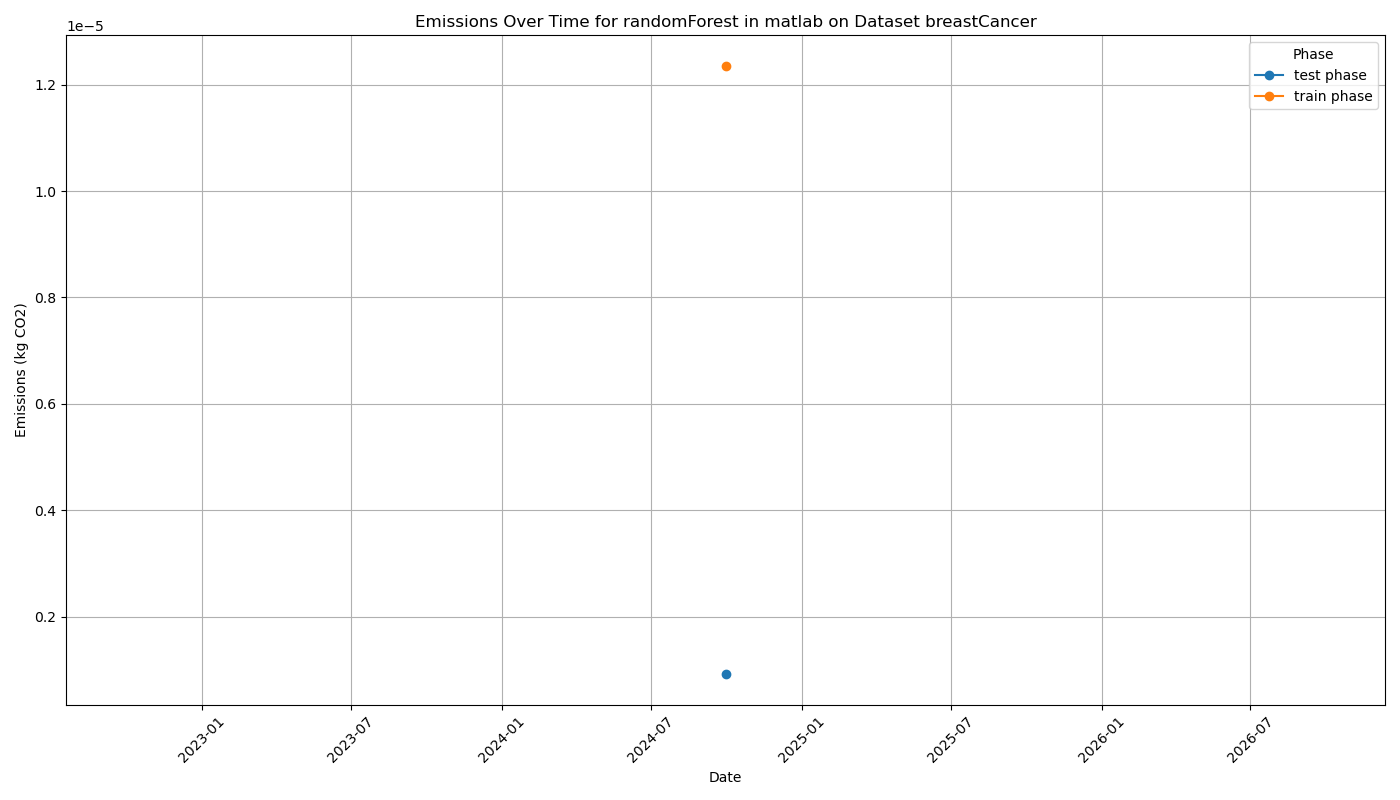
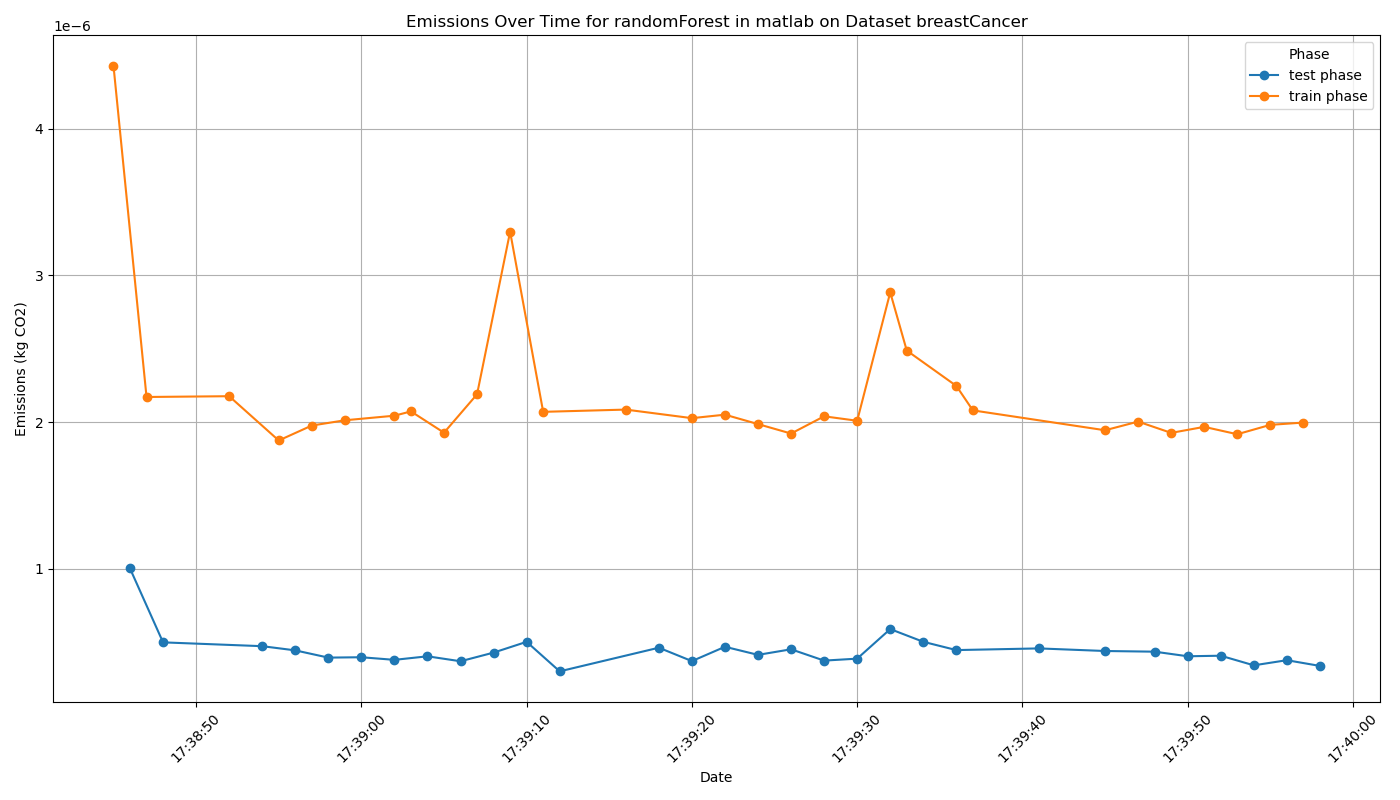
modified timeseries for paper

diff --git a/src/HandlePlot.py b/src/HandlePlot.py
@@ -13,14 +13,14 @@ def load_dataset(file_path):
 
 
 def plot_execution_time_by_language_and_algorithm(
-    df,
-    language_col,
-    algorithm_col,
-    time_col,
-    type_col,
-    type_value,
-    title,
-    excluded_language,
+        df,
+        language_col,
+        algorithm_col,
+        time_col,
+        type_col,
+        type_value,
+        title,
+        excluded_language,
 ):
     if excluded_language:
         df = df[df[language_col] != excluded_language]
@@ -61,7 +61,7 @@ def plot_execution_time_by_language_and_algorithm(
 
 
 def plot_duration_vs_emissions(
-    df, duration_col, co2_col, title="Durata_vs_Emissioni_di_CO₂"
+        df, duration_col, co2_col, title="Durata_vs_Emissioni_di_CO₂"
 ):
     # Calcolo dei quartili
     Q1 = df[co2_col].quantile(0.25)
@@ -86,11 +86,11 @@ def plot_duration_vs_emissions(
 
 
 def plot_duration_by_algorithm_and_dataset(
-    df,
-    algorithm_col,
-    duration_col,
-    dataset_col,
-    title="Durata_per_Algoritmo_diviso_per_Dataset",
+        df,
+        algorithm_col,
+        duration_col,
+        dataset_col,
+        title="Durata_per_Algoritmo_diviso_per_Dataset",
 ):
     plt.figure(figsize=(14, 8))
     palette = sns.color_palette("tab20", n_colors=df[dataset_col].nunique())
@@ -164,7 +164,7 @@ def plot_performance_heatmap(df, language_col, algorithm_col, col):
 
 
 def plot_execution_time_by_dataset(
-    df, dataset_col, time_col, language_col, title="Execution_Time_by_Dataset"
+        df, dataset_col, time_col, language_col, title="Execution_Time_by_Dataset"
 ):
     plt.figure(figsize=(12, 8))
     grouped_data = df.groupby([dataset_col, language_col])[time_col].sum().unstack()
@@ -179,12 +179,12 @@ def plot_execution_time_by_dataset(
 
 
 def plot_correlation_by_phase(
-    df,
-    cpu_energy_col,
-    emissions_col,
-    phase_col,
-    language_col,
-    title_prefix="Correlation_by_Phase",
+        df,
+        cpu_energy_col,
+        emissions_col,
+        phase_col,
+        language_col,
+        title_prefix="Correlation_by_Phase",
 ):
     phases = df[phase_col].unique()
 
@@ -286,7 +286,7 @@ def remove_outliers(df, threshold=3):
 
 
 def plot_emissions_by_algorithm(
-    df, algorithm_col, emissions_col, title="Emissions_by_Algorithm"
+        df, algorithm_col, emissions_col, title="Emissions_by_Algorithm"
 ):
     # Calcolo delle emissioni medie per algoritmo
     emissions_summary = df.groupby(algorithm_col)[emissions_col].mean().sort_values()
@@ -304,25 +304,32 @@ def plot_emissions_by_algorithm(
     plt.show()
 
 
-def plot_time_series(
-    df, language, dataset, algorithm, date_col, value_col, phase_col="phase"
-):
-    # Filter the DataFrame based on selected language, dataset, and algorithm
-    df_filtered = df[
-        (df["language"] == language)
-        & (df["dataset"] == dataset)
-        & (df["algorithm"] == algorithm)
-    ].copy()  # Create a copy to avoid SettingWithCopyWarning
+def plot_time_series_all_algorithms(df, language, date_col, value_col, phase_col='phase', phase='train',
+                                    dataset="breastCancer"):
+    """
+    Plot time series data for all algorithms for a specific language and dataset in a given phase.
+
+    Parameters:
+    - df: DataFrame containing the data
+    - language: The programming language to filter
+    - dataset: The dataset to filter
+    - date_col: Column name for date/time
+    - value_col: Column name for the values to plot
+    - phase_col: Column name for phase (optional, default is 'phase')
+    - phase: Phase to filter (optional, default is 'test')
+    """
+    # Filter the DataFrame based on the selected language, dataset, and phase
+    df_filtered = df[(df['language'] == language) &
+                     (df['dataset'] == dataset) &
+                     (df[phase_col] == phase)].copy()  # Create a copy to avoid SettingWithCopyWarning
 
     # Check if filtering resulted in non-empty DataFrame
     if df_filtered.empty:
-        print(
-            f"No data available for language: {language}, dataset: {dataset}, algorithm: {algorithm}"
-        )
+        print(f"No data available for language: {language}, dataset: {dataset} in phase: {phase}")
         return
 
     # Convert the timestamp column to datetime
-    df_filtered[date_col] = pd.to_datetime(df_filtered[date_col], errors="coerce")
+    df_filtered[date_col] = pd.to_datetime(df_filtered[date_col], errors='coerce')
 
     # Check for any conversion errors or NaT values
     if df_filtered[date_col].isna().any():
@@ -332,7 +339,7 @@ def plot_time_series(
     df_filtered = df_filtered.dropna(subset=[date_col])
 
     # Ensure the value column contains numeric data
-    df_filtered[value_col] = pd.to_numeric(df_filtered[value_col], errors="coerce")
+    df_filtered[value_col] = pd.to_numeric(df_filtered[value_col], errors='coerce')
 
     # Drop rows with invalid or missing values in the value column
     df_filtered = df_filtered.dropna(subset=[value_col])
@@ -345,42 +352,42 @@ def plot_time_series(
     # Plot the time series
     plt.figure(figsize=(14, 8))
 
-    # Separate the data into train and test phases
-    # Separate the data into train and test phases
-    for phase in df_filtered[phase_col].unique():
-        df_phase = df_filtered[df_filtered[phase_col] == phase]
+    # Get unique algorithms
+    algorithms = df_filtered['algorithm'].unique()
 
-        plt.plot(
-            df_phase[date_col],
-            df_phase[value_col],
-            marker="o",
-            linestyle="-",
-            label=f"{phase} phase",
-        )
+    # Generate a color palette for the algorithms
+    palette = sns.color_palette("tab20", n_colors=len(algorithms))
 
-    plt.title(f"Emissions Over Time for {algorithm} in {language} on Dataset {dataset}")
-    plt.xlabel("Date")
-    plt.ylabel("Emissions (kg CO2)")
+    # Plot each algorithm
+    for algorithm, color in zip(algorithms, palette):
+        df_algo = df_filtered[df_filtered['algorithm'] == algorithm]
+
+        plt.plot(df_algo[date_col], df_algo[value_col], marker='o', linestyle='-', color=color,
+                 label=f'{algorithm}')
+
+    plt.title(f'Emissions Over Time for All Algorithms in {language} on Dataset {dataset} (Phase: {phase})')
+    plt.xlabel('Date')
+    plt.ylabel('Emissions (kg CO2)')
     plt.grid(True)
     plt.xticks(rotation=45)
-    plt.legend(title="Phase")
+    plt.legend(title='Algorithm')
     plt.tight_layout()
 
     # Save the plot as an image file
-    plt.savefig(f"../plots/{algorithm}_emissions_time_series_{language}_{dataset}.png")
+    plt.savefig(f'graphics/emissions_time_series_{language}_{dataset}_{phase}.png')
 
     # Show the plot
     plt.show()
 
 
 def plot_time_series_all_algorithms(
-    df,
-    language,
-    date_col,
-    value_col,
-    phase_col="phase",
-    phase="train",
-    dataset="breastCancer",
+        df,
+        language,
+        date_col,
+        value_col,
+        phase_col="phase",
+        phase="train",
+        dataset="wine",
 ):
     """
     Plot time series data for all algorithms for a specific language and dataset in a given phase.
@@ -399,7 +406,7 @@ def plot_time_series_all_algorithms(
         (df["language"] == language)
         & (df["dataset"] == dataset)
         & (df[phase_col] == phase)
-    ].copy()  # Create a copy to avoid SettingWithCopyWarning
+        ].copy()  # Create a copy to avoid SettingWithCopyWarning
 
     # Check if filtering resulted in non-empty DataFrame
     if df_filtered.empty:
@@ -455,11 +462,12 @@ def plot_time_series_all_algorithms(
         f"Emissions Over Time for All Algorithms in {language} on Dataset {dataset} (Phase: {phase})"
     )
     plt.xlabel("Date")
-    plt.ylabel("Emissions (kg CO2)")
+    plt.ylabel("Energy consumed (Joules)")
     plt.grid(True)
     plt.xticks(rotation=45)
     plt.legend(title="Algorithm")
     plt.tight_layout()
+    plt.legend(title="Algorithm", fontsize=14, title_fontsize=16)
 
     # Save the plot as an image file
     plt.savefig(f"../plots/emissions_time_series_{language}_{dataset}_{phase}.png")
@@ -469,7 +477,7 @@ def plot_time_series_all_algorithms(
 
 
 def plot_execution_time_by_language(
-    df, language_col, algorithm_col, time_col, type_col, selected_algorithm, title
+        df, language_col, algorithm_col, time_col, type_col, selected_algorithm, title
 ):
     # Filter the DataFrame based on the selected algorithm
     filtered_df = df[df[algorithm_col] == selected_algorithm]
@@ -528,8 +536,8 @@ def plot_time_series_subplot(df, combinations, date_col, value_col, phase_col="p
     num_combinations = len(combinations)
     num_cols = 2  # Number of columns for subplots
     num_rows = (
-        num_combinations + num_cols - 1
-    ) // num_cols  # Calculate number of rows needed
+                       num_combinations + num_cols - 1
+               ) // num_cols  # Calculate number of rows needed
 
     fig, axes = plt.subplots(
         nrows=num_rows, ncols=num_cols, figsize=(15, 5 * num_rows), sharex=True
@@ -542,7 +550,7 @@ def plot_time_series_subplot(df, combinations, date_col, value_col, phase_col="p
             (df["language"] == language)
             & (df["dataset"] == dataset)
             & (df["algorithm"] == algorithm)
-        ].copy()  # Create a copy to avoid SettingWithCopyWarning
+            ].copy()  # Create a copy to avoid SettingWithCopyWarning
 
         if df_filtered.empty:
             print(
@@ -605,7 +613,7 @@ def plot_time_series_subplot(df, combinations, date_col, value_col, phase_col="p
 df = load_dataset("../data/meanEmissions.csv")
 df_raw = load_dataset("raw_merged_emissions.csv")
 df_clean = remove_outliers(df)
-
+"""
 plot_execution_time_by_language_and_algorithm(
     df,
     "language",
@@ -629,7 +637,7 @@ plot_execution_time_by_language_and_algorithm(
 )
 
 plot_performance_heatmap(df, "language", "algorithm", "energy_consumed")
-"""
+
 plot_execution_time_by_dataset(df, 'dataset', 'emissions', 'language')
 
 plot_correlation_by_phase(df, 'cpu_energy', 'emissions', 'phase', 'language',
@@ -642,9 +650,9 @@ plot_correlation_by_phase(df_raw, 'cpu_energy', 'emissions', 'phase', 'language'
 
 plot_correlation_by_phase(df_raw, 'cpu_energy', 'duration', 'phase', 'language',
                           title_prefix="Correlation_by_Phase_time_raw")
-
-plot_time_series(df_raw, 'matlab', 'breastCancer', 'randomForest', 'timestamp', 'cpu_energy')
-
+"""
+plot_time_series_all_algorithms(df_raw, 'R', 'timestamp', 'energy_consumed')
+"""
 plot_execution_time_by_language(df, 'language', 'algorithm', 'cpu_energy', 'phase', "KNN",
                                 "CPU energy "
                                 "distribution by language")
